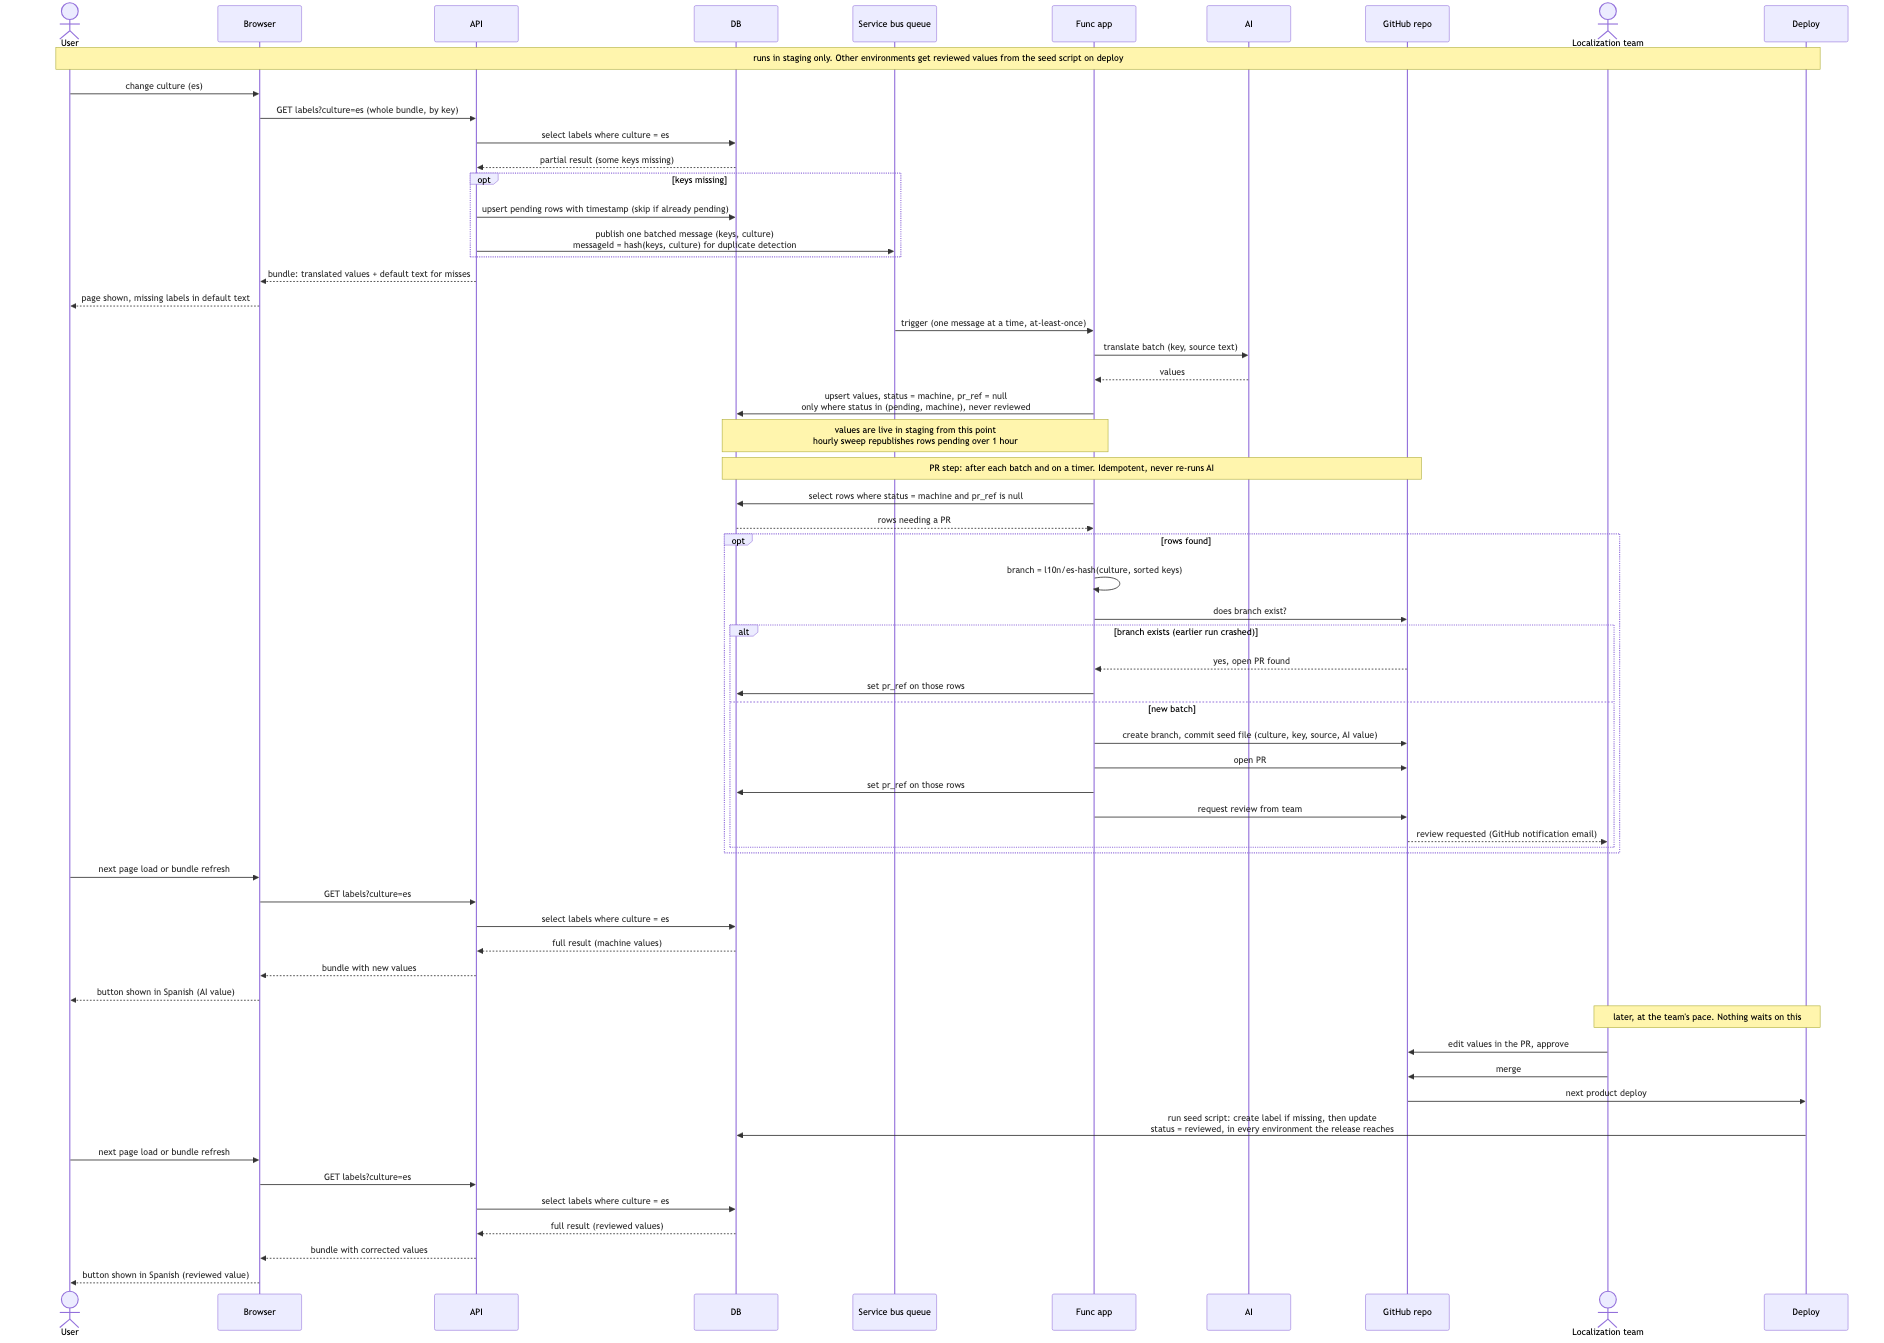
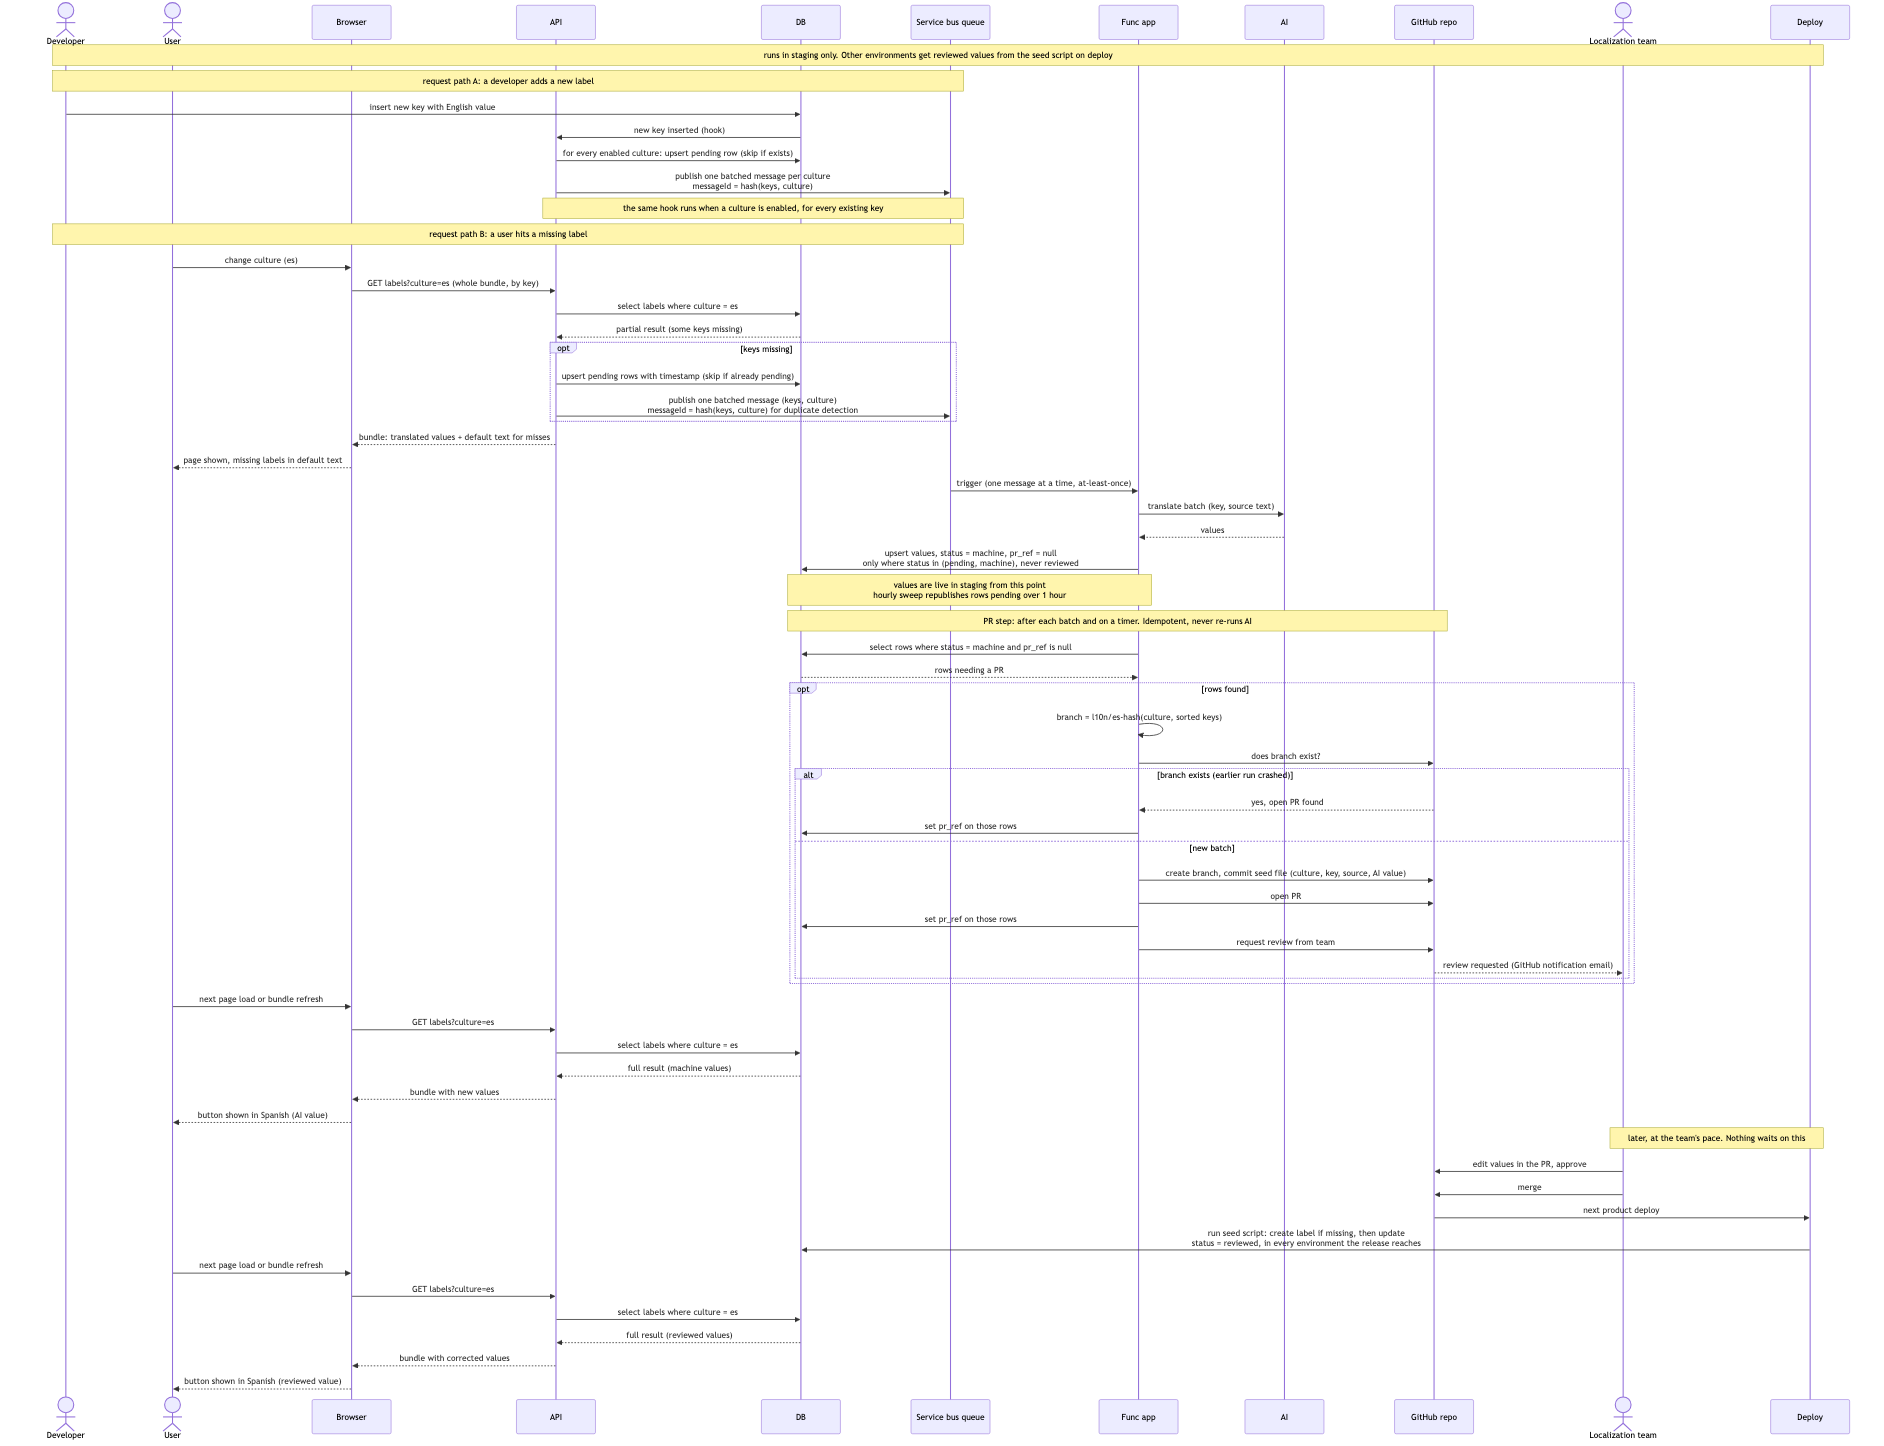
v3: request-missing-translations hook on label insert and culture enable, AI sample run first

diff --git a/v3/feasibility.md b/v3/feasibility.md
@@ -27,11 +27,29 @@ docs before writing an acceptance criterion on it.
 ### API and DB
 
 The API already reads labels. Add a bundle endpoint that returns all keys for
-a culture in one response, and on a miss does two things in order: upsert
-pending rows for the missing keys, skipping keys already pending, machine, or
-reviewed, then publish one message. The publish must come after the upsert so
-a crash between them leaves a pending row that the sweep recovers, rather than
-a message with no row.
+a culture in one response.
+
+Write the miss handling as one function, request missing translations, that
+takes a set of keys and a culture. It upserts pending rows for keys that have
+no row, skipping keys already pending, machine, or reviewed, then publishes
+one message. The publish must come after the upsert so a crash between them
+leaves a pending row that the sweep recovers, rather than a message with no
+row. Chunk the publish at a couple hundred keys per message.
+
+The function has three callers:
+
+- The bundle endpoint, on a miss. This is the safety net.
+- The place where English labels are inserted, once per enabled culture, so a
+  new label is translated before anyone opens the page.
+- The place where a culture is enabled, for every existing key. This replaces
+  a separate backfill command.
+
+Where the second and third callers live depends on how English labels and
+cultures enter the DB today, which I have not checked. If English values
+arrive through the seed script, the hook is a step at the end of that script.
+If they arrive through an admin endpoint or a migration, the hook goes there.
+Either way the function runs only in staging, behind an explicit flag, since
+that is the only environment with the queue and the Func app.
 
 Schema: `status` enum of pending, machine, reviewed. `pending_at` timestamp.
 `pr_ref` nullable string. `source_text` so the seed file and the AI prompt do
@@ -136,10 +154,9 @@ deploy job.
 
 ## Risks and open questions
 
-- **Coverage depends on staging traffic.** A key that no one hits in staging
-  never gets translated. Add a one-off backfill command that publishes every
-  key for a culture, for use when a culture is first enabled. Small, but plan
-  it in from the start.
+- **Hook placement is unverified.** The insert-label and enable-culture hooks
+  remove the dependence on staging traffic, but where they attach depends on
+  how English labels enter the DB. Confirm that path before writing the issue.
 - **Source text changes.** If the English label changes after translation,
   the reviewed value is stale and nothing flags it. Out of scope for now.
   Storing `source_text` on the row makes a later staleness check possible.
@@ -156,6 +173,8 @@ deploy job.
 
 In build order. Each is one branch, one merge, one verification on staging.
 
+0. AI sample run: twenty real labels through the translate call, output read
+   by a human. No code merged. Decides whether prompt work is needed.
 1. DB migration: `status`, `pending_at`, `pr_ref`, `source_text`.
 2. Service Bus queue with duplicate detection, plus managed identity.
 3. API bundle endpoint with miss detection, pending upsert, and publish.
@@ -164,7 +183,8 @@ In build order. Each is one branch, one merge, one verification on staging.
 6. Sweep function.
 7. GitHub App registration and PR step function.
 8. Seed script and deploy step.
-9. Backfill command for a new culture.
+9. Hook request-missing-translations into label insert and culture enable,
+   gated to staging.
 10. End-to-end verification on staging: force a miss, watch the PR appear,
     merge, deploy, confirm the reviewed value.
 

diff --git a/v3/label-localization-sequence.md b/v3/label-localization-sequence.md
@@ -14,7 +14,10 @@ values through the seed script on deploy.
 Flow:
 
 1. A miss in the bundle upserts pending rows and publishes one batched message
-   per culture.
+   per culture. The same "request missing translations" function also runs
+   when a developer inserts a new English label (for every enabled culture)
+   and when a culture is enabled (for every existing key), so new labels are
+   translated before any user opens the page.
 2. The Func app asks AI to translate the batch and upserts the values into the
    DB with status `machine` and no PR reference. Staging shows them on the next
    bundle fetch.
@@ -45,12 +48,16 @@ Rules that keep it safe:
   longer than an hour, so a dead-lettered batch does not leave keys stuck.
 - Queue consumer handles one message at a time. A rejected push is retried
   once after a fresh read of main.
+- The request-missing-translations function runs only in staging, behind an
+  explicit flag. Large requests, such as enabling a culture with thousands of
+  keys, are chunked at a couple hundred keys per message.
 
 Accepted for now: one PR per batch, and reviewers editing the seed file by
 hand.
 
 ```mermaid
 sequenceDiagram
+    actor Dev as Developer
     actor User
     participant Browser
     participant API
@@ -62,8 +69,16 @@ sequenceDiagram
     actor Team as Localization team
     participant Deploy
 
-    Note over User,Deploy: runs in staging only. Other environments get reviewed values from the seed script on deploy
+    Note over Dev,Deploy: runs in staging only. Other environments get reviewed values from the seed script on deploy
 
+    Note over Dev,Queue: request path A: a developer adds a new label
+    Dev->>DB: insert new key with English value
+    DB->>API: new key inserted (hook)
+    API->>DB: for every enabled culture: upsert pending row (skip if exists)
+    API->>Queue: publish one batched message per culture<br/>messageId = hash(keys, culture)
+    Note over API,Queue: the same hook runs when a culture is enabled, for every existing key
+
+    Note over Dev,Queue: request path B: a user hits a missing label
     User->>Browser: change culture (es)
     Browser->>API: GET labels?culture=es (whole bundle, by key)
     API->>DB: select labels where culture = es
